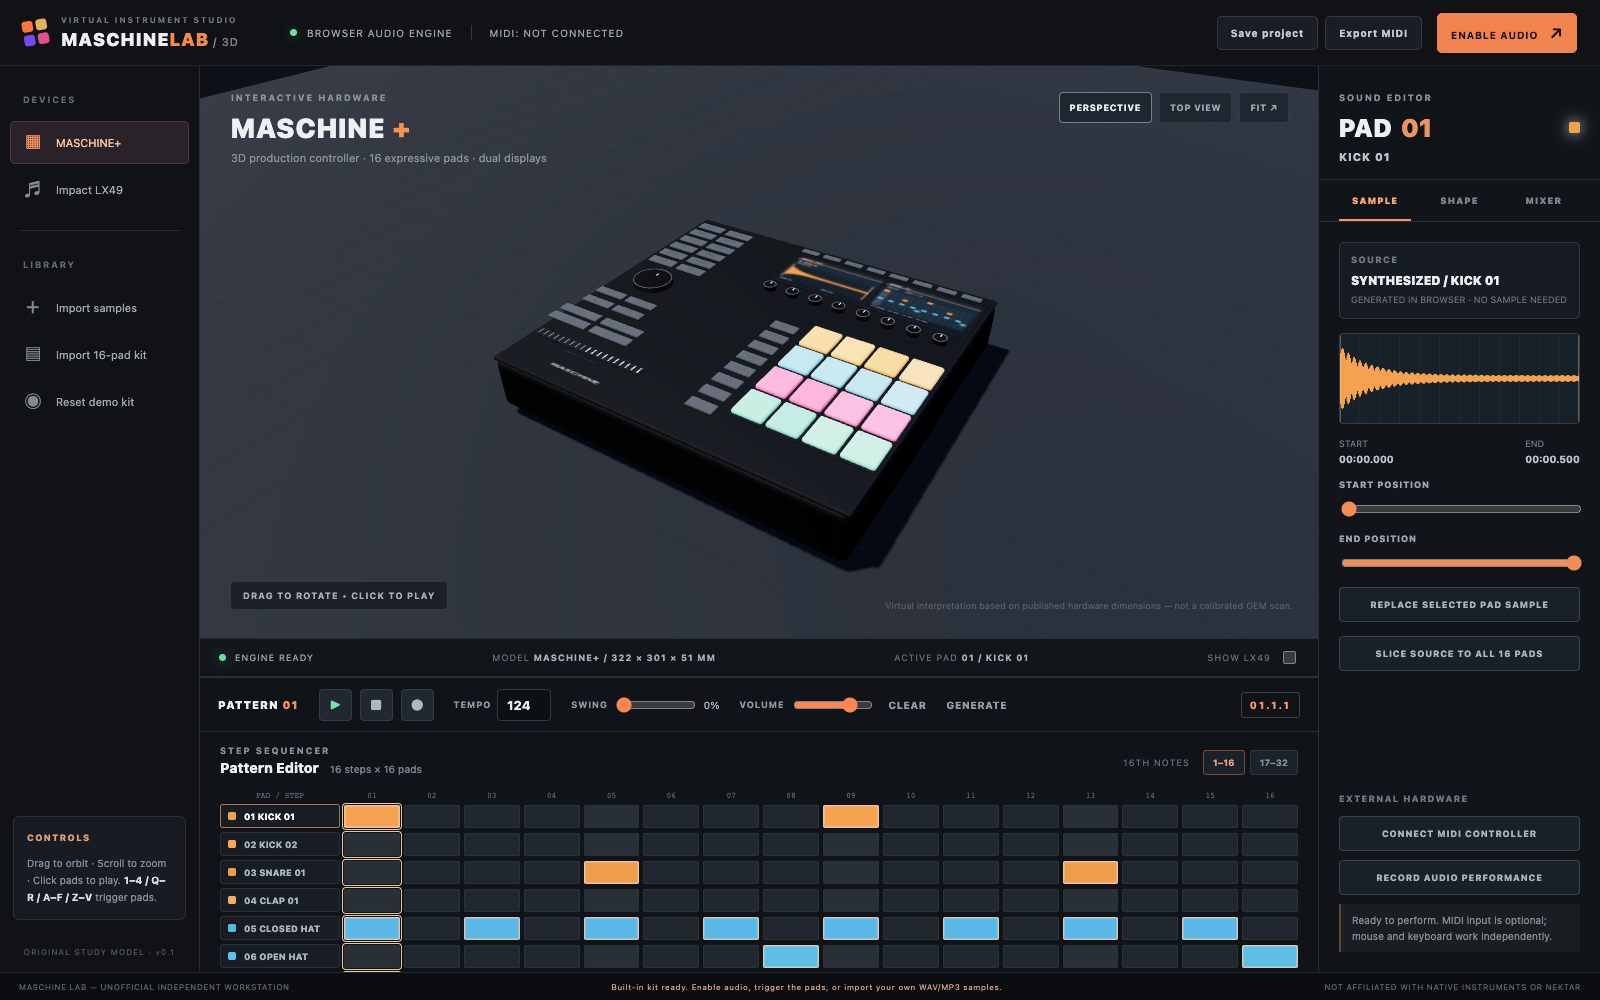
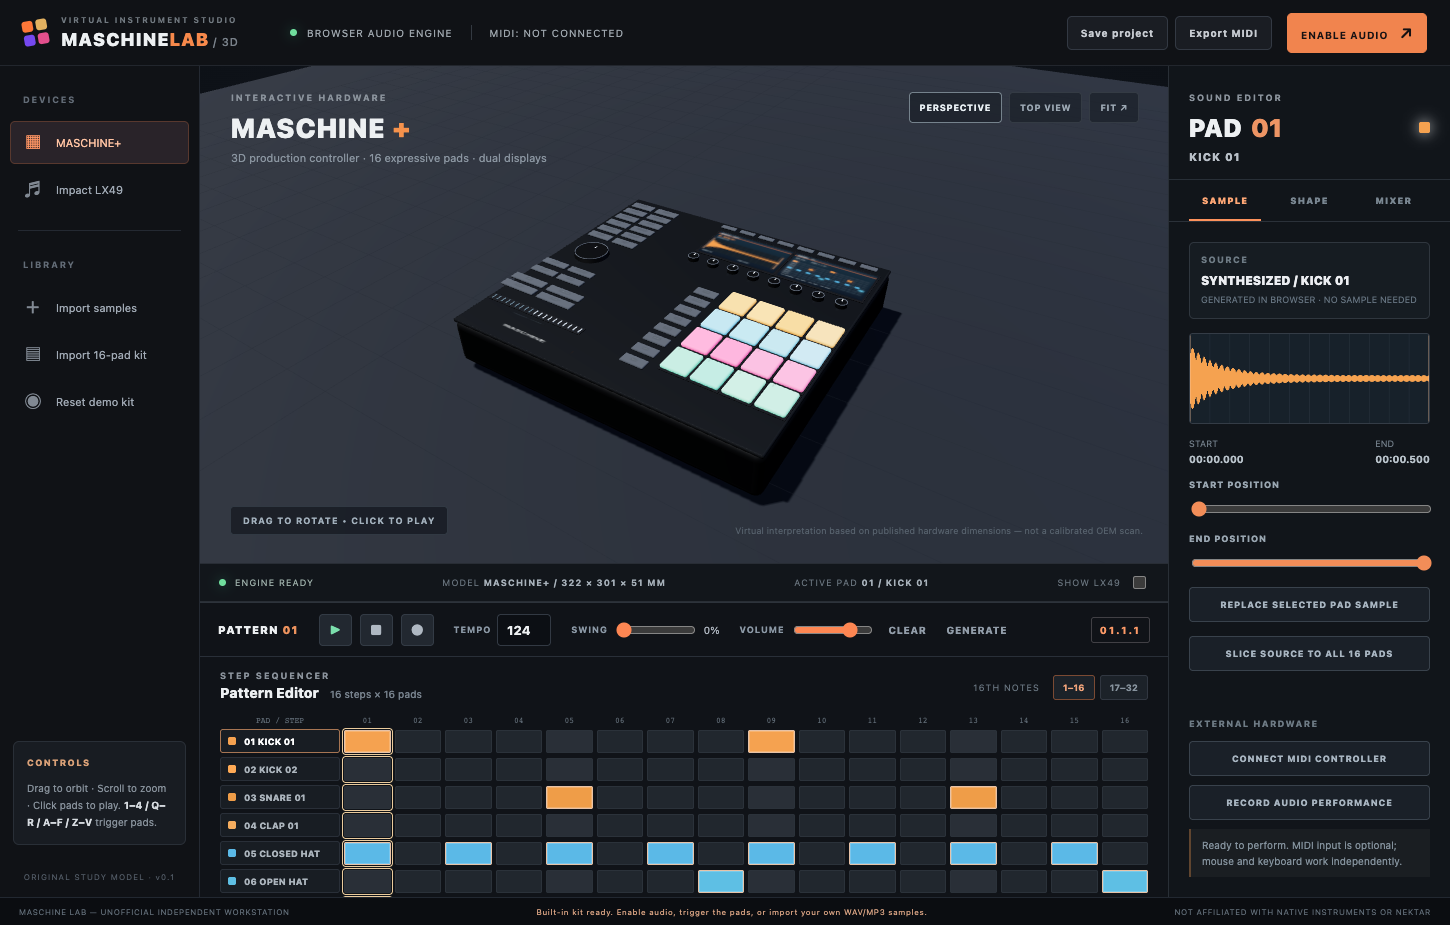
Recapture real MASCHINE LAB 3D browser and keyboard screens

diff --git a/STATUS.md b/STATUS.md
@@ -2,9 +2,9 @@
 
 ## MASCHINE LAB 2D / 3D follow-up (2026-11-14)
 
-Located the separately installed **MASCHINE LAB 2D** native macOS sampler on Jarvis and a matching, complete **MASCHINE LAB 3D** browser source project. The 2D app is illustrated in `docs/screenshots/maschine-lab-native-2d-redacted.png`: a genuine window-only capture with loaded audio waveform/metadata and private song/kit names obscured. The 3D source and locally vendored MIT-licensed Three.js modules are now included under `MaschineLab3D/`, with two historical Chrome UI screenshots. These are not the previously included CHOPROOM or ASR-10 samplers.
+Located the separately installed **MASCHINE LAB 2D** native macOS sampler on Jarvis and the distinct **MASCHINE LAB 3D** browser source project. The 2D app is illustrated in `docs/screenshots/maschine-lab-native-2d-redacted.png`: a genuine window-only capture with loaded audio waveform/metadata and private song/kit names obscured. The 3D source and locally vendored MIT-licensed Three.js modules are now included under `MaschineLab3D/`, with two fresh Chrome UI screenshots. These are not the previously included CHOPROOM or ASR-10 samplers.
 
-**Verified:** `node --check MaschineLab3D/app.js` passed; a transient localhost HTTP test returned full nonempty documents for `index.html`, `app.js`, `styles.css` and all four bundled Three.js modules. The 3D Chrome screenshots are archived from a previous November 7 source QA session with built-in generated demo sounds. The independently installed 2D Mac app launched for a fresh capture. **Not claimed:** an independent clean CMake/JUCE rebuild or Ableton AU/VST3 host test for MASCHINE LAB 2D. Its existing native C++ source retains hardcoded local private review-bank and song-workspace integrations; no complete native 2D source tree, private music bank or binaries are added here. Full native source publication requires a rights-safe, standalone cleanup.
+**Verified:** `node --check MaschineLab3D/app.js` passed. On November 14, Chrome loaded the exact staged source over localhost with HTTP 200, detected its Three.js canvas and all 16 pad objects, toggled the optional LX49 keyboard and reported zero JavaScript page errors; the two README photos were recaptured from this test with built-in synthetic demo sounds. The independently installed 2D Mac app launched for a fresh capture. **Not claimed:** an independent clean CMake/JUCE rebuild or Ableton AU/VST3 host test for MASCHINE LAB 2D. Its existing native C++ source retains hardcoded local private review-bank and song-workspace integrations; no complete native 2D source tree, private music bank or binaries are added here. Full native source publication requires a rights-safe, standalone cleanup.
 
 Source content scan: passed. No private sample banks, recorded audio, copyrighted material, binary apps or absolute personal paths.
 

diff --git a/docs/screenshots/README.md b/docs/screenshots/README.md
@@ -2,7 +2,7 @@
 
 Every linked visual in this folder is one of three explicitly labeled types:
 
-- **MASCHINE LAB** (`maschine-lab-native-2d-redacted.png`, `maschine-lab-3d-browser.png`, `maschine-lab-3d-lx49-browser.png`): native 2D screenshot taken directly from the installed MASCHINE LAB.app on November 14, 2026 via macOS window capture with private song/waveform/session data replaced by opaque neutral blocks; 3D browser screenshots are actual November 7, 2026 Chrome captures using synthesized demo sounds, with source available in `MaschineLab3D/`. Native 2D app source is not yet a self-contained distributable public build and is not confused with the browser emulator.
+- **MASCHINE LAB** (`maschine-lab-native-2d-redacted.png`, `maschine-lab-3d-browser.png`, `maschine-lab-3d-lx49-browser.png`): native 2D screenshot taken directly from the installed MASCHINE LAB.app on November 14, 2026 via macOS window capture with private song/waveform/session data replaced by opaque neutral blocks; 3D browser screenshots were freshly recaptured from the staged source on November 14, 2026 using Chrome and synthesized demo sounds, with source available in `MaschineLab3D/`. Native 2D app source is not yet a self-contained distributable public build and is not confused with the browser emulator.
 
 1. **CHOPROOM browser screenshots** (`choproom-*.png`): actual isolated headless Chrome captures of the source-only HTML/JS interface on November 14, 2026, with no user samples, stems or audio loaded. The main workspace, slicing tools and 16-pad controls are visible. These do not prove physical hardware routing, audio export or the installed private runtime.
 2. **Native sampler GUI screenshots** (`vintage-native-board-redacted.png`, `asr10-native-keyboard-ui.png`): the Vintage Sampler Lab app was captured live on Jarvis November 14, 2026 and cropped to the app window. The former screenshot intentionally replaces the private audio waveform, selected song name and pad sample names with neutral redaction blocks; never treat it as a pixel-perfect original capture. The ASR-10 image comes from a previously saved November 2026 UI screenshot in the ASR source project and has no song library exposed. Both illustrate real interface work, not verified rebuilds of these source trees.

diff --git a/MaschineLab3D/README.md b/MaschineLab3D/README.md
@@ -22,3 +22,7 @@ The control geometry is an original study based on published product dimensions,
 The `vendor/` directory contains code from [three.js](https://github.com/mrdoob/three.js), Copyright (c) 2010–2025 three.js authors, under the **MIT License**, including its `OrbitControls`, `RoundedBoxGeometry` and core modules. See [THREE-LICENSE.md](THREE-LICENSE.md). The remaining workstation model and interface source are part of this project. Product names indicate hardware references only, not vendor affiliation.
 
 The [main Sampler Projects README](../README.md) also shows the genuinely installed native MASCHINE LAB 2D sampler, with personal audio/session text removed from its screenshot. That native program requires separate JUCE sources and a Mac build and is **not included as a runnable native binary** in this browser source folder.
+
+## Screenshot verification (2026-11-14)
+
+The screenshots in the parent README were freshly recaptured from this exact source tree with headless Google Chrome: HTTP 200, 16 responsive pad objects, Three.js canvas present, optional LX49 keyboard successfully toggled, and zero browser JavaScript exceptions. This is browser/UI verification, **not a hardware MIDI or real-audio latency test**.

diff --git a/README.md b/README.md
@@ -71,7 +71,7 @@ See [third-party notices](THIRD_PARTY_NOTICES.md) for dependencies and attributi
 
 ![Actual MASCHINE LAB 2D native macOS sampler application with redacted private audio and 16 RGB performance pads](docs/screenshots/maschine-lab-native-2d-redacted.png)
 
-**Original 3D MASCHINE LAB browser application (source included here):** The source-owned 3D controller model and its optional LX49-style keyboard were captured in actual Chrome sessions with synthetic demo sounds, not user tracks.
+**Original 3D MASCHINE LAB browser application (source included here):** The source-owned 3D controller model and its optional LX49-style keyboard were recaptured from the published browser source in a fresh headless Chrome session on November 14, 2026, using only synthetic demo sounds, not user tracks.
 
 | 3D modeled sampler | 3D sampler with optional modeled keyboard |
 | --- | --- |
